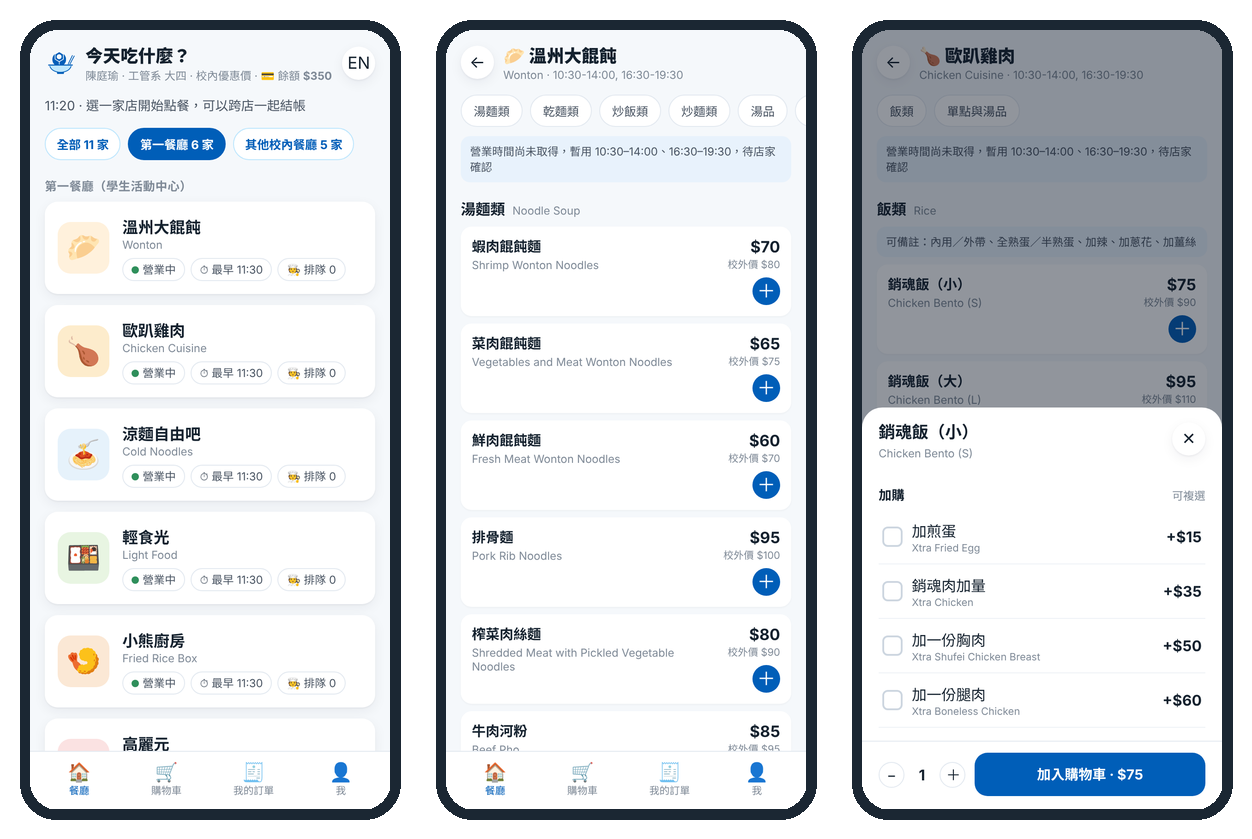
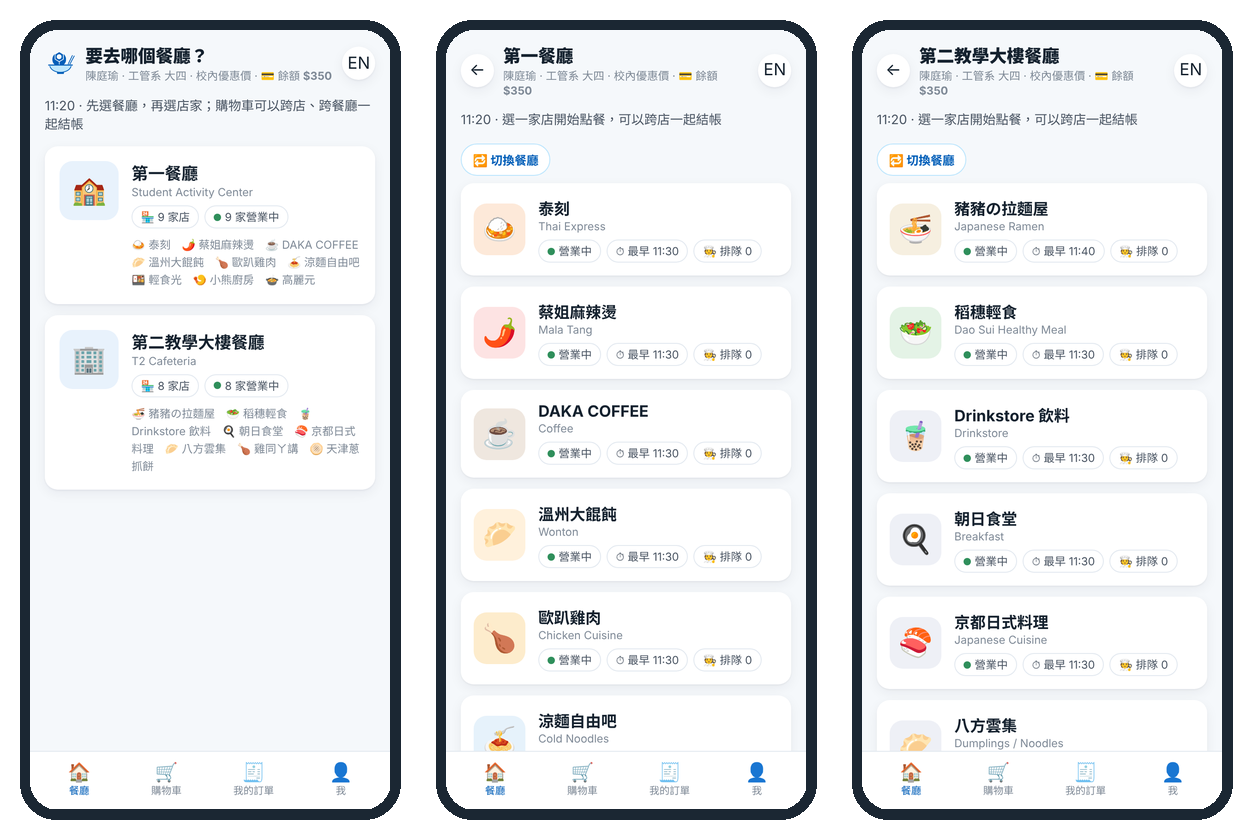
docs: README 改為兩個餐廳、17 家店與選餐廳流程
Claude-Session: https://claude.ai/code/session_017jSi1PNAT7cMJzLBuDKtYd

diff --git a/README.md b/README.md
@@ -4,9 +4,9 @@
 
 中午 12:10 下課、1:20 又要上課，泰刻和麻辣燙常排隊 20 分鐘。台科學餐讓師生**上課前先在手機點好、選 10 分鐘一格的取餐時段、線上付款**，下課出示 QR Code 取餐；店家用平板依時段接單。
 
-- 校內 11 家店、434 道菜（校內價／校外價），首頁可依餐廳區域切換：
-  - **第一餐廳（學生活動中心）**：溫州大餛飩、歐趴雞肉、涼麵自由吧、輕食光、小熊廚房、高麗元
-  - **其他校內餐廳**：泰刻、豬豬の拉麵屋、蔡姐麻辣燙、DAKA COFFEE、稻穗輕食
+- 兩個學生餐廳、17 家店、734 道菜（校內價／校外價）。登入後先選餐廳，再選店家：
+  - **第一餐廳（學生活動中心）**：泰刻、蔡姐麻辣燙、DAKA COFFEE、溫州大餛飩、歐趴雞肉、涼麵自由吧、輕食光、小熊廚房、高麗元
+  - **第二教學大樓餐廳（T2）**：豬豬の拉麵屋、稻穗輕食、Drinkstore 飲料、朝日食堂、京都日式料理、八方雲集、雞同ㄚ講、天津蔥抓餅
 - 線上試用：**https://lululu525.github.io/NtustEats/**（手機打開可「加入主畫面」當 App 用）
 
 ---
@@ -26,11 +26,11 @@
 | 店家 | 下拉選單選自己的店＋密碼 | 接單、交付、售完、時段容量 |
 | 總務處 | 用校內身分登入，可切換「編輯模式」 | 新增店家、編輯菜單 |
 
-### 2. 依餐廳區域選店
+### 2. 先選餐廳，再選店家
 
-![第一餐廳](docs/screenshots/07-first-restaurant.png)
+![選餐廳](docs/screenshots/07-first-restaurant.png)
 
-首頁上方可以切換「全部／第一餐廳／其他校內餐廳」。點進店家看分類菜單，有加購的品項（例如歐趴雞肉的加煎蛋、加胸肉）會跳出加購選項。看不清楚的價格標「價格待確認」。
+登入後先到「要去哪個餐廳？」，卡片會顯示每個餐廳有幾家店、幾家營業中。選好後只看到那個餐廳的店家，上方可「切換餐廳」。購物車可以跨店、跨餐廳一起結帳。有加購的品項（例如蔥抓餅加配料、飲料加珍珠）會跳出加購選項；看不清楚的價格標「價格待確認」。
 
 ### 3. 學生點餐流程
 
